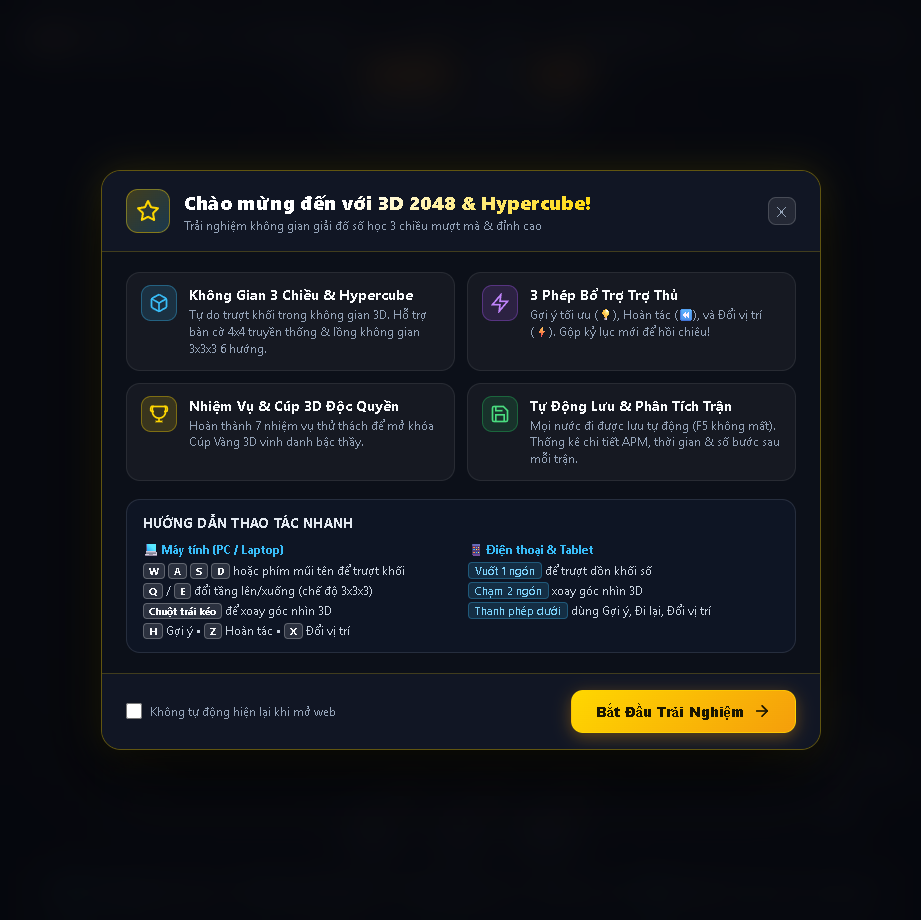
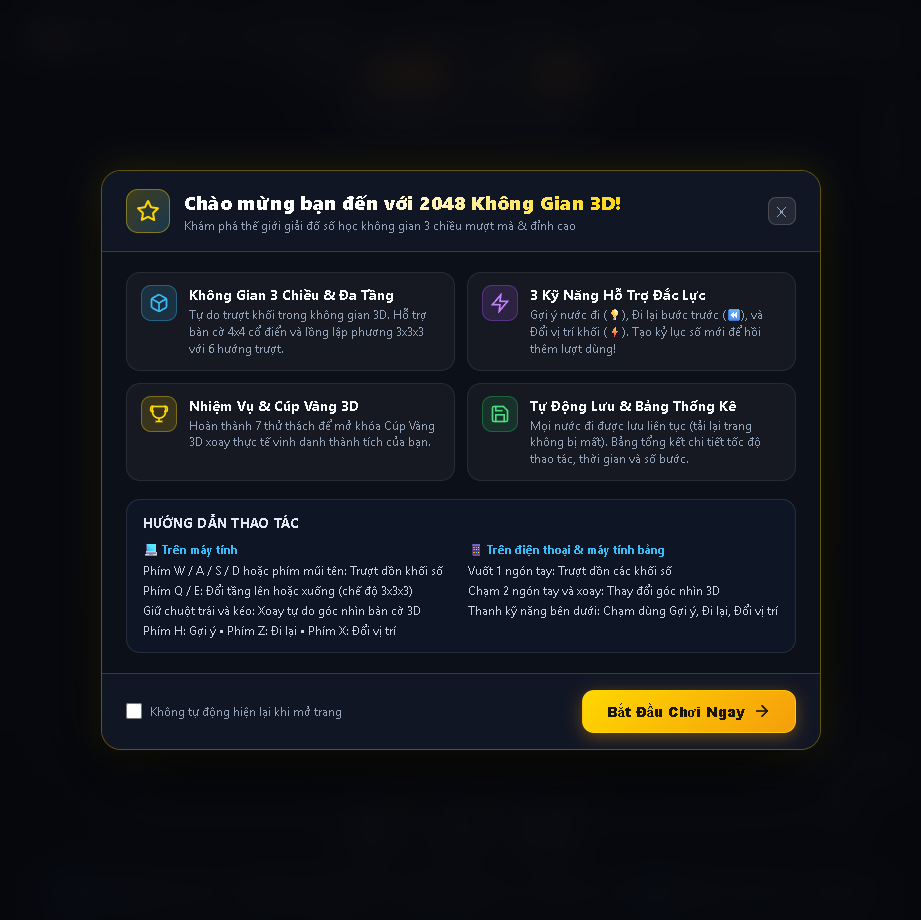
fix(i18n): unify 100% natural Vietnamese for welcome modal and guide, eliminate awkward mixed English

diff --git a/src/i18n.js b/src/i18n.js
@@ -13,17 +13,17 @@ export const DICTIONARY = {
     game_title: '2048',
     score: 'Điểm số',
     best: 'Kỷ lục',
-    mode_4x4: '4x4 Classic',
-    mode_3x3x3: '3x3x3 Hypercube',
+    mode_4x4: '4x4 Cổ điển',
+    mode_3x3x3: '3x3x3 Đa tầng',
     mode_tooltip: 'Chọn chế độ không gian (4x4 phẳng hoặc 3x3x3 đa tầng)',
-    btn_rush: 'Rush',
-    rush_tooltip: 'Chế độ Time Rush đếm ngược',
-    btn_boss: 'Boss',
-    btn_boss_active: 'Đang Đấu Boss',
-    boss_tooltip: 'Chế độ Boss Mode (Lõi năng lượng 3 Phase)',
-    btn_ai: 'AI',
-    btn_ai_active: 'Dừng AI',
-    ai_tooltip: 'Bật/Tắt AI tự động tính toán và đi từng nước',
+    btn_rush: 'Đua giờ',
+    rush_tooltip: 'Chế độ đếm ngược thời gian kịch tính',
+    btn_boss: 'Đấu trùm',
+    btn_boss_active: 'Đang đấu trùm',
+    boss_tooltip: 'Chế độ thử thách đấu trùm 3 giai đoạn',
+    btn_ai: 'Tự chơi',
+    btn_ai_active: 'Dừng tự chơi',
+    ai_tooltip: 'Bật/Tắt chế độ máy tự tính toán và đi từng nước',
     btn_new_game: 'Chơi mới',
     new_game_tooltip: 'Bắt đầu ván chơi mới',
     settings_tooltip: 'Mở Cài đặt hệ thống',
@@ -31,14 +31,14 @@ export const DICTIONARY = {
     // Settings Modal
     settings_title: 'Cài Đặt',
     setting_mode: 'Chế độ chơi',
-    setting_ai: 'AI Tự chơi',
+    setting_ai: 'Máy tự chơi',
     setting_lang: 'Ngôn ngữ',
     setting_shape: 'Hình khối 3D',
     setting_theme: 'Giao diện nền',
     setting_fps: 'Tần số quét (FPS)',
     setting_audio: 'Âm thanh & Nhạc',
-    setting_dpad: 'Phím ảo D-Pad',
-    dpad_auto: 'Tự động (Chỉ PC)',
+    setting_dpad: 'Phím ảo điều hướng',
+    dpad_auto: 'Tự động (Chỉ máy tính)',
     dpad_hidden: 'Luôn ẩn',
     dpad_visible: 'Luôn hiện',
     setting_share: 'Chia sẻ điểm',
@@ -130,21 +130,28 @@ export const DICTIONARY = {
 
     // Welcome & Intro Modal
     help_tooltip: 'Giới thiệu & Hướng dẫn',
-    welcome_title: 'Chào mừng đến với 3D 2048 & Hypercube!',
-    welcome_subtitle: 'Trải nghiệm không gian giải đố số học 3 chiều mượt mà & đỉnh cao',
-    welcome_feat1_title: 'Không Gian 3 Chiều & Hypercube',
-    welcome_feat1_desc: 'Tự do trượt khối trong không gian 3D. Hỗ trợ bàn cờ 4x4 truyền thống & lồng không gian 3x3x3 6 hướng.',
-    welcome_feat2_title: '3 Phép Bổ Trợ Trợ Thủ',
-    welcome_feat2_desc: 'Gợi ý tối ưu (💡), Hoàn tác (⏪), và Đổi vị trí (⚡). Gộp kỷ lục mới để hồi chiêu!',
-    welcome_feat3_title: 'Nhiệm Vụ & Cúp 3D Độc Quyền',
-    welcome_feat3_desc: 'Hoàn thành 7 nhiệm vụ thử thách để mở khóa Cúp Vàng 3D vinh danh bậc thầy.',
-    welcome_feat4_title: 'Tự Động Lưu & Phân Tích Trận',
-    welcome_feat4_desc: 'Mọi nước đi được lưu tự động (F5 không mất). Thống kê chi tiết APM, thời gian & số bước sau mỗi trận.',
-    welcome_controls_title: 'Hướng Dẫn Thao Tác Nhanh',
-    welcome_device_pc: '💻 Máy tính (PC / Laptop)',
-    welcome_device_mobile: '📱 Điện thoại & Tablet',
-    welcome_dont_show: 'Không tự động hiện lại khi mở web',
-    welcome_btn_start: 'Bắt Đầu Trải Nghiệm',
+    welcome_title: 'Chào mừng bạn đến với 2048 Không Gian 3D!',
+    welcome_subtitle: 'Khám phá thế giới giải đố số học không gian 3 chiều mượt mà & đỉnh cao',
+    welcome_feat1_title: 'Không Gian 3 Chiều & Đa Tầng',
+    welcome_feat1_desc: 'Tự do trượt khối trong không gian 3D. Hỗ trợ bàn cờ 4x4 cổ điển và lồng lập phương 3x3x3 với 6 hướng trượt.',
+    welcome_feat2_title: '3 Kỹ Năng Hỗ Trợ Đắc Lực',
+    welcome_feat2_desc: 'Gợi ý nước đi (💡), Đi lại bước trước (⏪), và Đổi vị trí khối (⚡). Tạo kỷ lục số mới để hồi thêm lượt dùng!',
+    welcome_feat3_title: 'Nhiệm Vụ & Cúp Vàng 3D',
+    welcome_feat3_desc: 'Hoàn thành 7 thử thách để mở khóa Cúp Vàng 3D xoay thực tế vinh danh thành tích của bạn.',
+    welcome_feat4_title: 'Tự Động Lưu & Bảng Thống Kê',
+    welcome_feat4_desc: 'Mọi nước đi được lưu liên tục (tải lại trang không bị mất). Bảng tổng kết chi tiết tốc độ thao tác, thời gian và số bước.',
+    welcome_controls_title: 'HƯỚNG DẪN THAO TÁC',
+    welcome_device_pc: '💻 Trên máy tính',
+    welcome_device_mobile: '📱 Trên điện thoại & máy tính bảng',
+    welcome_pc_tip1: 'Phím W / A / S / D hoặc phím mũi tên: Trượt dồn khối số',
+    welcome_pc_tip2: 'Phím Q / E: Đổi tầng lên hoặc xuống (chế độ 3x3x3)',
+    welcome_pc_tip3: 'Giữ chuột trái và kéo: Xoay tự do góc nhìn bàn cờ 3D',
+    welcome_pc_tip4: 'Phím H: Gợi ý • Phím Z: Đi lại • Phím X: Đổi vị trí',
+    welcome_mobile_tip1: 'Vuốt 1 ngón tay: Trượt dồn các khối số',
+    welcome_mobile_tip2: 'Chạm 2 ngón tay và xoay: Thay đổi góc nhìn 3D',
+    welcome_mobile_tip3: 'Thanh kỹ năng bên dưới: Chạm dùng Gợi ý, Đi lại, Đổi vị trí',
+    welcome_dont_show: 'Không tự động hiện lại khi mở trang',
+    welcome_btn_start: 'Bắt Đầu Chơi Ngay',
 
     // Boss Mode
     boss_title: 'BOSS MODE ACTIVATED',
@@ -314,9 +321,16 @@ export const DICTIONARY = {
     welcome_feat3_desc: 'Complete 7 quests to unlock the golden 3D trophy celebrating your mastery.',
     welcome_feat4_title: 'Autosave & Match Analytics',
     welcome_feat4_desc: 'Every move is autosaved on reload. Detailed post-game stats for APM, time & moves.',
-    welcome_controls_title: 'Quick Controls Guide',
+    welcome_controls_title: 'QUICK CONTROLS GUIDE',
     welcome_device_pc: '💻 Desktop & Laptop',
     welcome_device_mobile: '📱 Mobile & Tablet',
+    welcome_pc_tip1: 'W / A / S / D or Arrow keys: Slide number tiles',
+    welcome_pc_tip2: 'Q / E keys: Shift layers up/down (3x3x3 mode)',
+    welcome_pc_tip3: 'Left-click & drag: Orbit camera view freely',
+    welcome_pc_tip4: 'Key H: Hint • Key Z: Undo • Key X: Swap',
+    welcome_mobile_tip1: '1-finger swipe: Slide and merge number tiles',
+    welcome_mobile_tip2: '2-finger pinch/drag: Rotate 3D camera view',
+    welcome_mobile_tip3: 'Bottom skill bar: Tap to use Hint, Undo, Swap',
     welcome_dont_show: "Don't show automatically on startup",
     welcome_btn_start: 'Start Playing Now',
 
@@ -489,8 +503,15 @@ export const DICTIONARY = {
     welcome_feat4_title: '自動保存＆マッチ詳細分析',
     welcome_feat4_desc: 'リロード時も自動保存。APM、プレイ時間、手数などの詳細データを記録。',
     welcome_controls_title: '操作ガイド',
-    welcome_device_pc: '💻 パソコン (PC / Laptop)',
+    welcome_device_pc: '💻 パソコン',
     welcome_device_mobile: '📱 スマートフォン＆タブレット',
+    welcome_pc_tip1: 'W / A / S / D または 矢印キー: タイルをスライド',
+    welcome_pc_tip2: 'Q / E キー: 上下階層を移動 (3x3x3モード)',
+    welcome_pc_tip3: '左ドラッグ: 3D盤面を自由に回転',
+    welcome_pc_tip4: 'Hキー: ヒント • Zキー: 戻す • Xキー: 位置交換',
+    welcome_mobile_tip1: '1本指スワイプ: タイルをスライド合体',
+    welcome_mobile_tip2: '2本指操作: 3D視点を自由に回転',
+    welcome_mobile_tip3: '下のボタン: ヒント、戻す、位置交換',
     welcome_dont_show: '次回から自動で表示しない',
     welcome_btn_start: '今すぐプレイ開始',
 
@@ -665,6 +686,13 @@ export const DICTIONARY = {
     welcome_controls_title: '조작 가이드',
     welcome_device_pc: '💻 데스크톱 & 노트북',
     welcome_device_mobile: '📱 모바일 & 태블릿',
+    welcome_pc_tip1: 'W / A / S / D 또는 방향키: 타일 슬라이드',
+    welcome_pc_tip2: 'Q / E 키: 위/아래 층 이동 (3x3x3 모드)',
+    welcome_pc_tip3: '마우스 드래그: 3D 보드 시점 자유 회전',
+    welcome_pc_tip4: 'H키: 힌트 • Z키: 되돌리기 • X키: 위치 교환',
+    welcome_mobile_tip1: '한 손가락 스와이프: 숫자 타일 합치기',
+    welcome_mobile_tip2: '두 손가락 터치: 3D 시점 회전',
+    welcome_mobile_tip3: '하단 스킬 버튼: 힌트, 되돌리기, 위치 교환',
     welcome_dont_show: '시작 시 자동으로 표시하지 않기',
     welcome_btn_start: '지금 시작하기',
 

diff --git a/index.html b/index.html
@@ -108,9 +108,9 @@
           <svg class="header-btn-svg" viewBox="0 0 24 24" fill="none" stroke="currentColor" stroke-width="1.8" stroke-linecap="round" stroke-linejoin="round">
             <polygon points="13 2 3 14 12 14 11 22 21 10 12 10 13 2"></polygon>
           </svg>
-          <span class="btn-text" data-i18n="btn_rush">Rush</span>
+          <span class="btn-text" data-i18n="btn_rush">Đua giờ</span>
         </button>
-        <button id="btn-toggle-boss" class="glass-btn boss-btn" data-i18n-title="boss_tooltip" title="Bật/Tắt Boss Mode">
+        <button id="btn-toggle-boss" class="glass-btn boss-btn" data-i18n-title="boss_tooltip" title="Bật/Tắt Chế độ Đấu Trùm">
           <svg class="header-btn-svg" viewBox="0 0 24 24" fill="none" stroke="currentColor" stroke-width="1.8" stroke-linecap="round" stroke-linejoin="round">
             <path d="M14.5 17.5L3 6V3h3l11.5 11.5"></path>
             <path d="M13 19l6-6"></path>
@@ -121,7 +121,7 @@
             <path d="M8 16l-4 4"></path>
             <path d="M5 21l-2-2"></path>
           </svg>
-          <span class="btn-text" data-i18n="btn_boss">Boss</span>
+          <span class="btn-text" data-i18n="btn_boss">Đấu trùm</span>
         </button>
       </div>
 
@@ -539,8 +539,8 @@
             </svg>
           </div>
           <div>
-            <h2 class="welcome-modal-title" data-i18n="welcome_title">Chào mừng đến với 3D 2048 & Hypercube!</h2>
-            <p class="welcome-modal-subtitle" data-i18n="welcome_subtitle">Trải nghiệm không gian giải đố số học 3 chiều mượt mà & đỉnh cao</p>
+            <h2 class="welcome-modal-title" data-i18n="welcome_title">Chào mừng bạn đến với 2048 Không Gian 3D!</h2>
+            <p class="welcome-modal-subtitle" data-i18n="welcome_subtitle">Khám phá thế giới giải đố số học không gian 3 chiều mượt mà & đỉnh cao</p>
           </div>
         </div>
         <button id="welcome-modal-close" class="settings-close-btn" aria-label="Đóng" title="Đóng">✕</button>
@@ -558,8 +558,8 @@
               </svg>
             </div>
             <div class="welcome-feature-info">
-              <h4 data-i18n="welcome_feat1_title">Không Gian 3 Chiều & Hypercube</h4>
-              <p data-i18n="welcome_feat1_desc">Tự do trượt khối trong không gian 3D. Hỗ trợ bàn cờ 4x4 truyền thống & lồng không gian 3x3x3 6 hướng.</p>
+              <h4 data-i18n="welcome_feat1_title">Không Gian 3 Chiều & Đa Tầng</h4>
+              <p data-i18n="welcome_feat1_desc">Tự do trượt khối trong không gian 3D. Hỗ trợ bàn cờ 4x4 cổ điển và lồng lập phương 3x3x3 với 6 hướng trượt.</p>
             </div>
           </div>
 
@@ -570,8 +570,8 @@
               </svg>
             </div>
             <div class="welcome-feature-info">
-              <h4 data-i18n="welcome_feat2_title">3 Phép Bổ Trợ Trợ Thủ</h4>
-              <p data-i18n="welcome_feat2_desc">Gợi ý tối ưu (💡), Hoàn tác (⏪), và Đổi vị trí (⚡). Gộp kỷ lục mới để hồi chiêu!</p>
+              <h4 data-i18n="welcome_feat2_title">3 Kỹ Năng Hỗ Trợ Đắc Lực</h4>
+              <p data-i18n="welcome_feat2_desc">Gợi ý nước đi (💡), Đi lại bước trước (⏪), và Đổi vị trí khối (⚡). Tạo kỷ lục số mới để hồi thêm lượt dùng!</p>
             </div>
           </div>
 
@@ -586,8 +586,8 @@
               </svg>
             </div>
             <div class="welcome-feature-info">
-              <h4 data-i18n="welcome_feat3_title">Nhiệm Vụ & Cúp 3D Độc Quyền</h4>
-              <p data-i18n="welcome_feat3_desc">Hoàn thành 7 nhiệm vụ thử thách để mở khóa Cúp Vàng 3D xoay thực tế vinh danh bậc thầy.</p>
+              <h4 data-i18n="welcome_feat3_title">Nhiệm Vụ & Cúp Vàng 3D</h4>
+              <p data-i18n="welcome_feat3_desc">Hoàn thành 7 thử thách để mở khóa Cúp Vàng 3D xoay thực tế vinh danh thành tích của bạn.</p>
             </div>
           </div>
 
@@ -600,31 +600,31 @@
               </svg>
             </div>
             <div class="welcome-feature-info">
-              <h4 data-i18n="welcome_feat4_title">Tự Động Lưu & Phân Tích Trận</h4>
-              <p data-i18n="welcome_feat4_desc">Mọi nước đi được lưu tự động (F5 không mất). Thống kê chi tiết APM, thời gian & số bước sau mỗi trận.</p>
+              <h4 data-i18n="welcome_feat4_title">Tự Động Lưu & Bảng Thống Kê</h4>
+              <p data-i18n="welcome_feat4_desc">Mọi nước đi được lưu liên tục (tải lại trang không bị mất). Bảng tổng kết chi tiết tốc độ thao tác, thời gian và số bước.</p>
             </div>
           </div>
         </div>
 
         <!-- How to play / Controls section -->
         <div class="welcome-controls-guide">
-          <h4 class="welcome-guide-title" data-i18n="welcome_controls_title">Hướng Dẫn Thao Tác Nhanh</h4>
+          <h4 class="welcome-guide-title" data-i18n="welcome_controls_title">HƯỚNG DẪN THAO TÁC</h4>
           <div class="welcome-controls-row">
             <div class="welcome-control-box">
-              <span class="control-device" data-i18n="welcome_device_pc">💻 Máy tính (PC / Laptop)</span>
+              <span class="control-device" data-i18n="welcome_device_pc">💻 Trên máy tính</span>
               <ul class="control-tips">
-                <li><kbd>W</kbd> <kbd>A</kbd> <kbd>S</kbd> <kbd>D</kbd> hoặc phím mũi tên để trượt khối</li>
-                <li><kbd>Q</kbd> / <kbd>E</kbd> đổi tầng lên/xuống (chế độ 3x3x3)</li>
-                <li><kbd>Chuột trái kéo</kbd> để xoay góc nhìn 3D</li>
-                <li><kbd>H</kbd> Gợi ý • <kbd>Z</kbd> Hoàn tác • <kbd>X</kbd> Đổi vị trí</li>
+                <li data-i18n="welcome_pc_tip1"><kbd>W</kbd> <kbd>A</kbd> <kbd>S</kbd> <kbd>D</kbd> hoặc phím mũi tên: Trượt dồn khối số</li>
+                <li data-i18n="welcome_pc_tip2"><kbd>Q</kbd> / <kbd>E</kbd>: Đổi tầng lên hoặc xuống (chế độ 3x3x3)</li>
+                <li data-i18n="welcome_pc_tip3"><kbd>Chuột trái kéo</kbd>: Xoay tự do góc nhìn bàn cờ 3D</li>
+                <li data-i18n="welcome_pc_tip4">Phím <kbd>H</kbd> Gợi ý • Phím <kbd>Z</kbd> Đi lại • Phím <kbd>X</kbd> Đổi vị trí</li>
               </ul>
             </div>
             <div class="welcome-control-box">
-              <span class="control-device" data-i18n="welcome_device_mobile">📱 Điện thoại & Tablet</span>
+              <span class="control-device" data-i18n="welcome_device_mobile">📱 Trên điện thoại & máy tính bảng</span>
               <ul class="control-tips">
-                <li><span class="gesture-pill">Vuốt 1 ngón</span> để trượt dồn khối số</li>
-                <li><span class="gesture-pill">Chạm 2 ngón</span> xoay góc nhìn 3D</li>
-                <li><span class="gesture-pill">Thanh phép dưới</span> dùng Gợi ý, Đi lại, Đổi vị trí</li>
+                <li data-i18n="welcome_mobile_tip1"><span class="gesture-pill">Vuốt 1 ngón tay</span>: Trượt dồn các khối số</li>
+                <li data-i18n="welcome_mobile_tip2"><span class="gesture-pill">Chạm 2 ngón xoay</span>: Thay đổi góc nhìn 3D</li>
+                <li data-i18n="welcome_mobile_tip3"><span class="gesture-pill">Thanh kỹ năng bên dưới</span>: Dùng Gợi ý, Đi lại, Đổi vị trí</li>
               </ul>
             </div>
           </div>
@@ -635,10 +635,10 @@
       <div class="welcome-modal-footer">
         <label class="welcome-dont-show">
           <input type="checkbox" id="welcome-dont-show-checkbox">
-          <span data-i18n="welcome_dont_show">Không tự động hiện lại khi mở web</span>
+          <span data-i18n="welcome_dont_show">Không tự động hiện lại khi mở trang</span>
         </label>
         <button id="welcome-modal-start-btn" class="welcome-start-btn">
-          <span data-i18n="welcome_btn_start">Bắt Đầu Trải Nghiệm</span>
+          <span data-i18n="welcome_btn_start">Bắt Đầu Chơi Ngay</span>
           <svg viewBox="0 0 24 24" fill="none" stroke="currentColor" stroke-width="2.2" stroke-linecap="round" stroke-linejoin="round">
             <line x1="5" y1="12" x2="19" y2="12"></line>
             <polyline points="12 5 19 12 12 19"></polyline>
